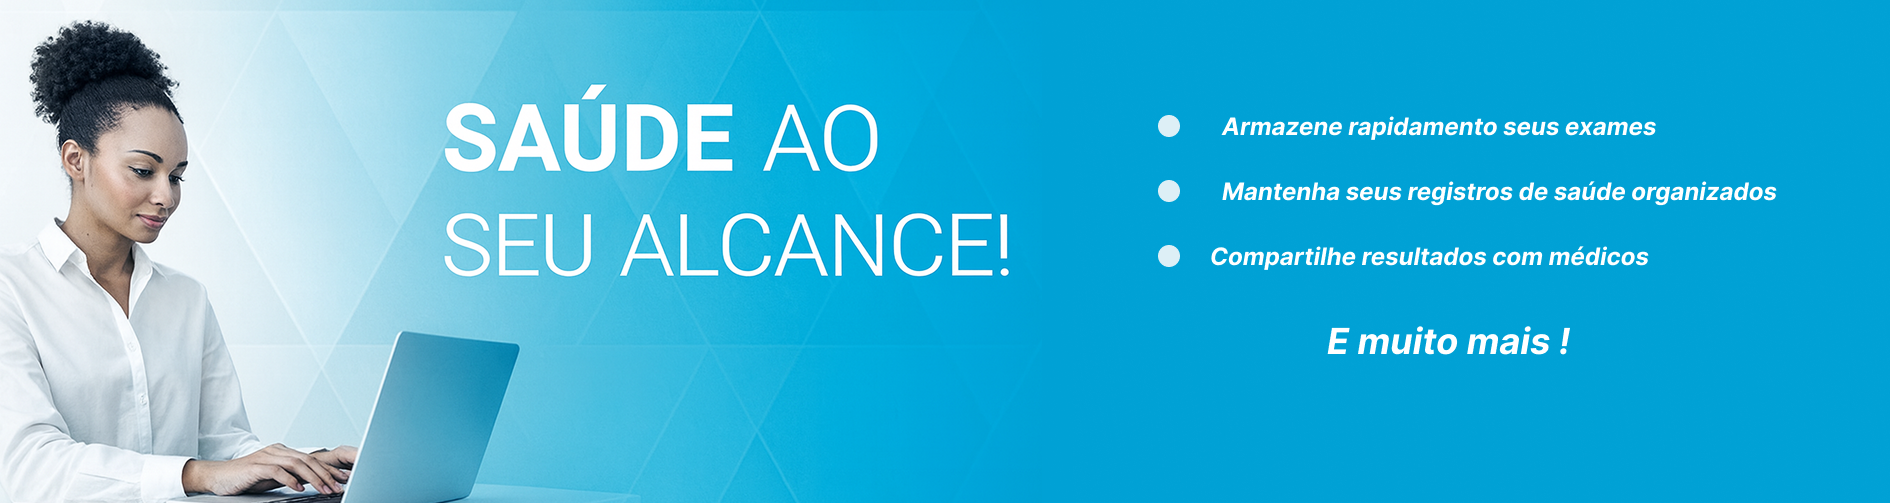
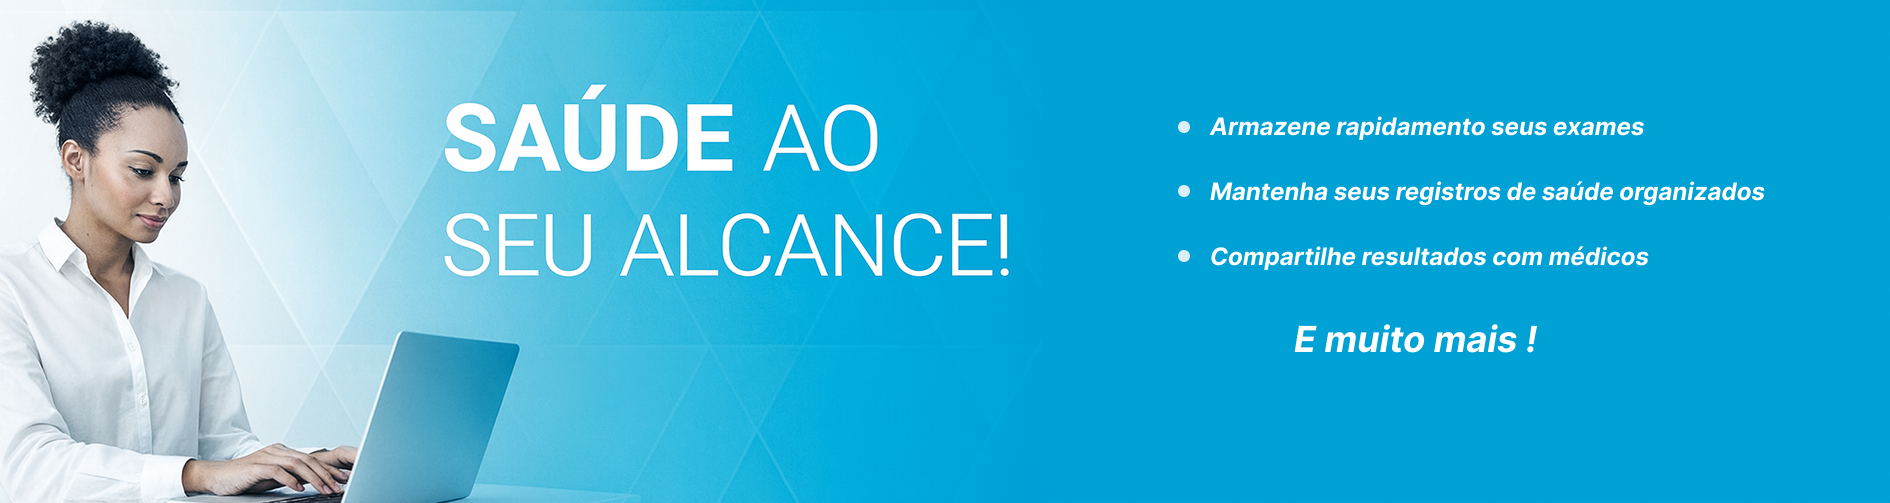
- Ajuste

diff --git a/frontend/src/pages/home/Home.tsx b/frontend/src/pages/home/Home.tsx
@@ -19,8 +19,8 @@ import {
 } from "../../services/apiInterna/verificarSolicitacoesAcesso";
 
 //banners
-import banner1 from "../../assets/banner3.png";
-import banner2 from "../../assets/Group 157.png";
+import banner2 from "../../assets/banner3.png";
+import banner1 from "../../assets/Group 157.png";
 
 //validações
 import { showMessage } from "../../components/messageHelper/ShowMessage";
